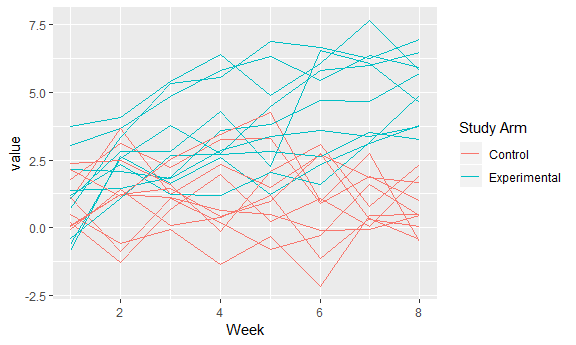
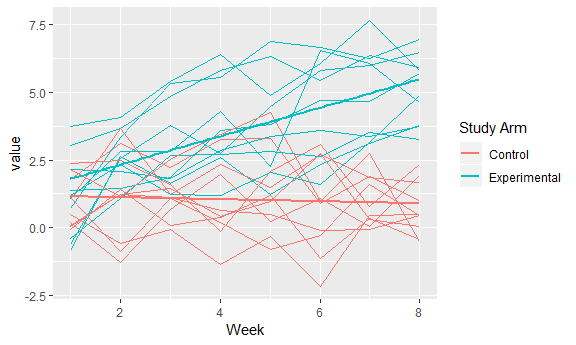
Final commit

diff --git a/p8105_hw5_at2710.md b/p8105_hw5_at2710.md
@@ -9,9 +9,9 @@ Problem 1
 ---------
 
 ``` r
-file_list = list.files(path = 'data/', pattern = "*.csv")
+file_list <- list.files(path = 'data/', pattern = "*.csv")
 
-#function to lead each dataset and create id and group variable
+#function to read each dataset and create id and group variable
 read_add_id_arm <- function(x){
   read_csv(paste('data/', x, sep = '')) %>% 
     mutate(id = str_sub(x, 5, 6), arm = str_sub(x, 1, 3))
@@ -25,7 +25,9 @@ read_add_id_arm <- function(x){
   #Spaghetti plot
   ggplot(aes(x = as.numeric(week), y = value, color = arm,
   group = interaction(arm, id))) + 
-  geom_line() + xlab('Week') +
+  geom_line() + xlab('Week') + 
+  geom_smooth(aes(group = arm),
+  method = "lm", se = FALSE) +
   scale_color_discrete(name = "Study Arm",
                        breaks = c("con", "exp"),
                       labels = c("Control", "Experimental"))
@@ -33,7 +35,7 @@ read_add_id_arm <- function(x){
 
 <img src="p8105_hw5_at2710_files/figure-markdown_github/Problem_1-1.png" width="90%" />
 
-**Answer**: Whatever value it is they are measuring, those in experimental arm increase over time while people in the control arm didn't see any increase within the 8-week duration under study. Actually some saw a decrease in the outcome
+**Answer**: Whatever value it is they are measuring, those in experimental arm increase over time while people in the control arm didn't see any increase within the 8-week duration under study. In fact, if you look at the trend line, the average value of the outcome decrease at the end of week 8.
 
 Problem 2
 ---------
@@ -62,7 +64,7 @@ homicide_df <-  homicide_dat %>%
     select(-`1`)
 ```
 
-The raw data contains 52179 homicide cases from 2007-01-01 to the end of 2017 (2017-12-31). It is collected from 51 cities in 28 states. According to this data, Chicago, IL has the highest homicide cases (5535). 63.9% of the victims are Black and 78.1% are male. Here is the table showing the total number of homicides and number of unsolved homidicdes by city.
+The raw data contains 52179 homicide cases from 2007-01-01 to the end of 2017 (2017-12-31). It is collected from 51 cities and according to this data, Chicago, IL has the highest homicide cases (5535). 63.9% of the victims are Black and 78.1% are male. Here is the table showing the total number of homicides and number of unsolved homidicdes by city.
 
 ``` r
     homicide_df %>% kable()
@@ -131,7 +133,9 @@ baltimore <- homicide_df %>%
 #Assign function to tidy data after performing the test,
 #And only retain the estimate and CIs
 prop.test.tidy <- function(x, y){
-  prop.test(x, y) %>% tidy() %>% select(estimate, conf.low, conf.high)
+  prop.test(x, y) %>% 
+  tidy() %>% 
+  select(estimate, conf.low, conf.high)
 }
 result_baltimore <- prop.test.tidy(baltimore$unsolved_case, baltimore$total)
 ```
@@ -139,12 +143,15 @@ result_baltimore <- prop.test.tidy(baltimore$unsolved_case, baltimore$total)
 Focusing on Baltimore, MD, the proportion of homicides that are unsolved is 0.65 (0.63, 0.66).
 
 ``` r
-finaldat <- map2(homicide_df$unsolved_case, homicide_df$total, prop.test.tidy) %>% bind_rows() %>% bind_cols(., homicide_df) %>% select(city_state, everything()) 
+finaldat <- 
+  map2(homicide_df$unsolved_case, homicide_df$total, prop.test.tidy) %>%         bind_rows() %>% 
+  bind_cols(., homicide_df) %>% 
+  select(city_state, everything()) 
 ```
 
     ## Warning in prop.test(x, y): Chi-squared approximation may be incorrect
 
-Create a plot that shows the estimates and CIs for each city – check out geom\_errorbar for a way to add error bars based on the upper and lower limits. Organize cities according to the proportion of unsolved homicides.
+A plot that shows the estimates and CIs for each city
 
 ``` r
 finaldat %>% 
@@ -159,3 +166,5 @@ finaldat %>%
 ```
 
 <img src="p8105_hw5_at2710_files/figure-markdown_github/figure-1.png" width="90%" />
+
+Chicago not only has the highest crime rate but also the highest unsolved crime in the dataset.
